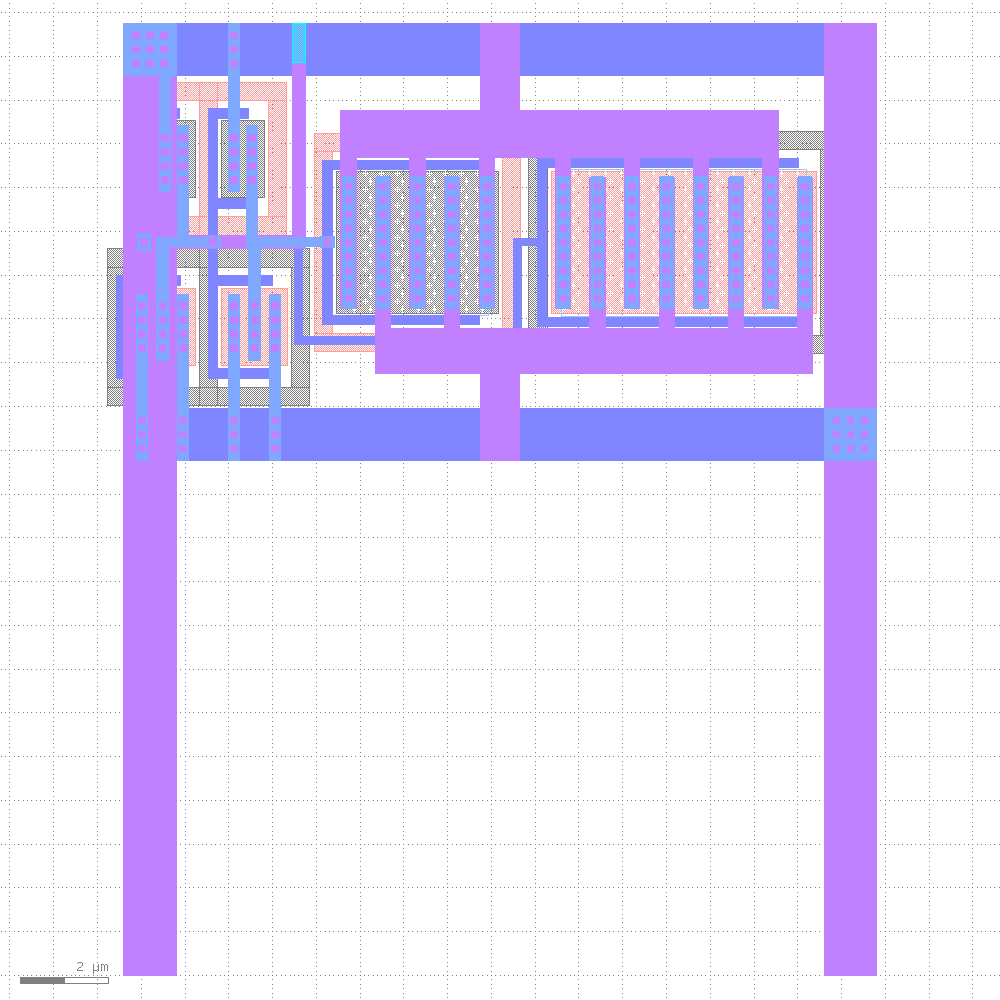
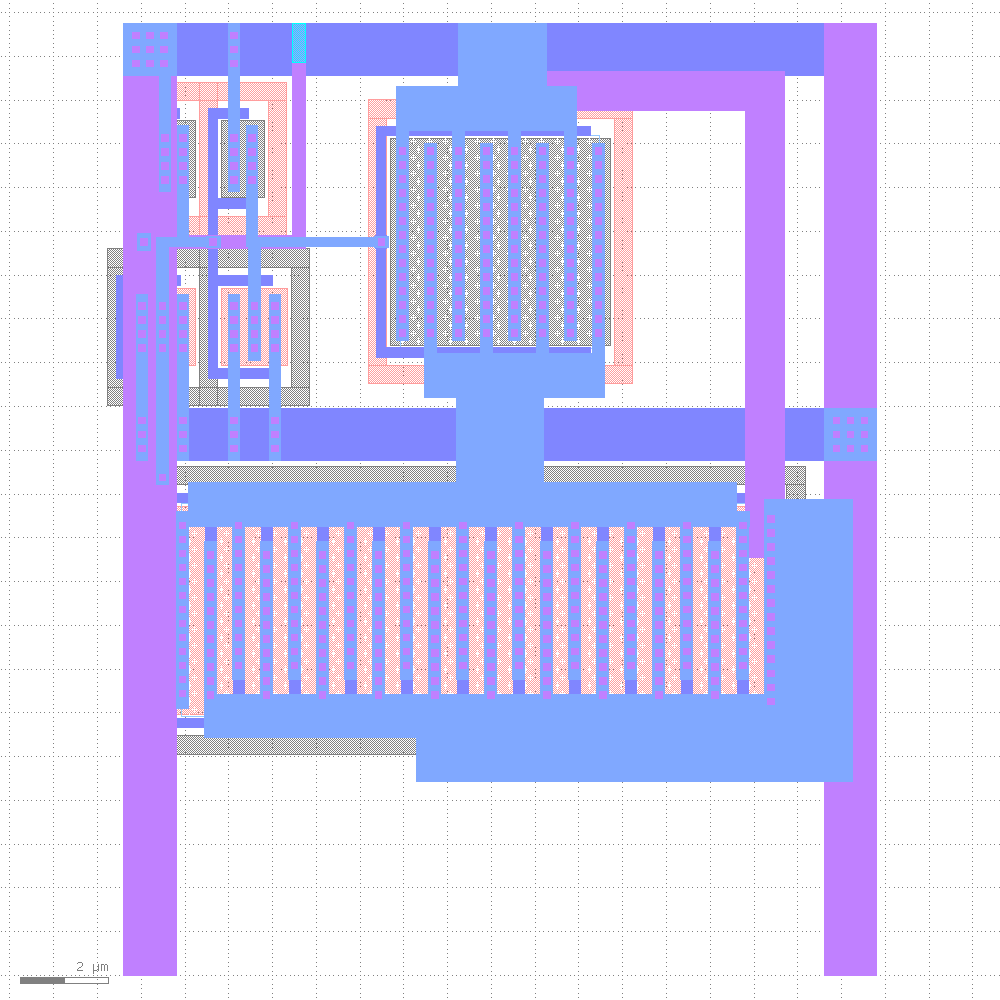
updated picture path and added a log

diff --git a/README.md b/README.md
@@ -12,8 +12,30 @@
 
 ## Schematic vs Layout
 
-![sim](docs/schematic_and_parax.png)
+![sim](docs/trans.png)
 
 ## Resistance and AC
 
-![sim](docs/resistance_and_ac.png)
+![sim](docs/dc_and_ac.png)
+
+# Log
+
+## Sun  7 Apr 16:42:22 CEST 2024
+
+* Found a xschem bug where the xschem generated spice wasn't correct with LVS mode on, layout wasn't correct but was passing LVS
+* Sylvain updated schematic to avoid the `_nf` variant MOSFETs, redid layout with the new (bigger) transistors
+* Fixed the spice netlist by hand and now layout simulation is as before.
+
+## 6th April 2024
+
+* Improved schematic and layout by Sylvain. Resolved issue #1.
+* Changed the resistance and AC sim to use the extracted circuit
+* Layout's simulation of the new layout is 10x worse on resistance
+
+## 4th April 2024
+
+* Add testbench for transient and AC.
+
+## 21st March 2024
+
+* Initial spec from Harald, schematic and first layout.
